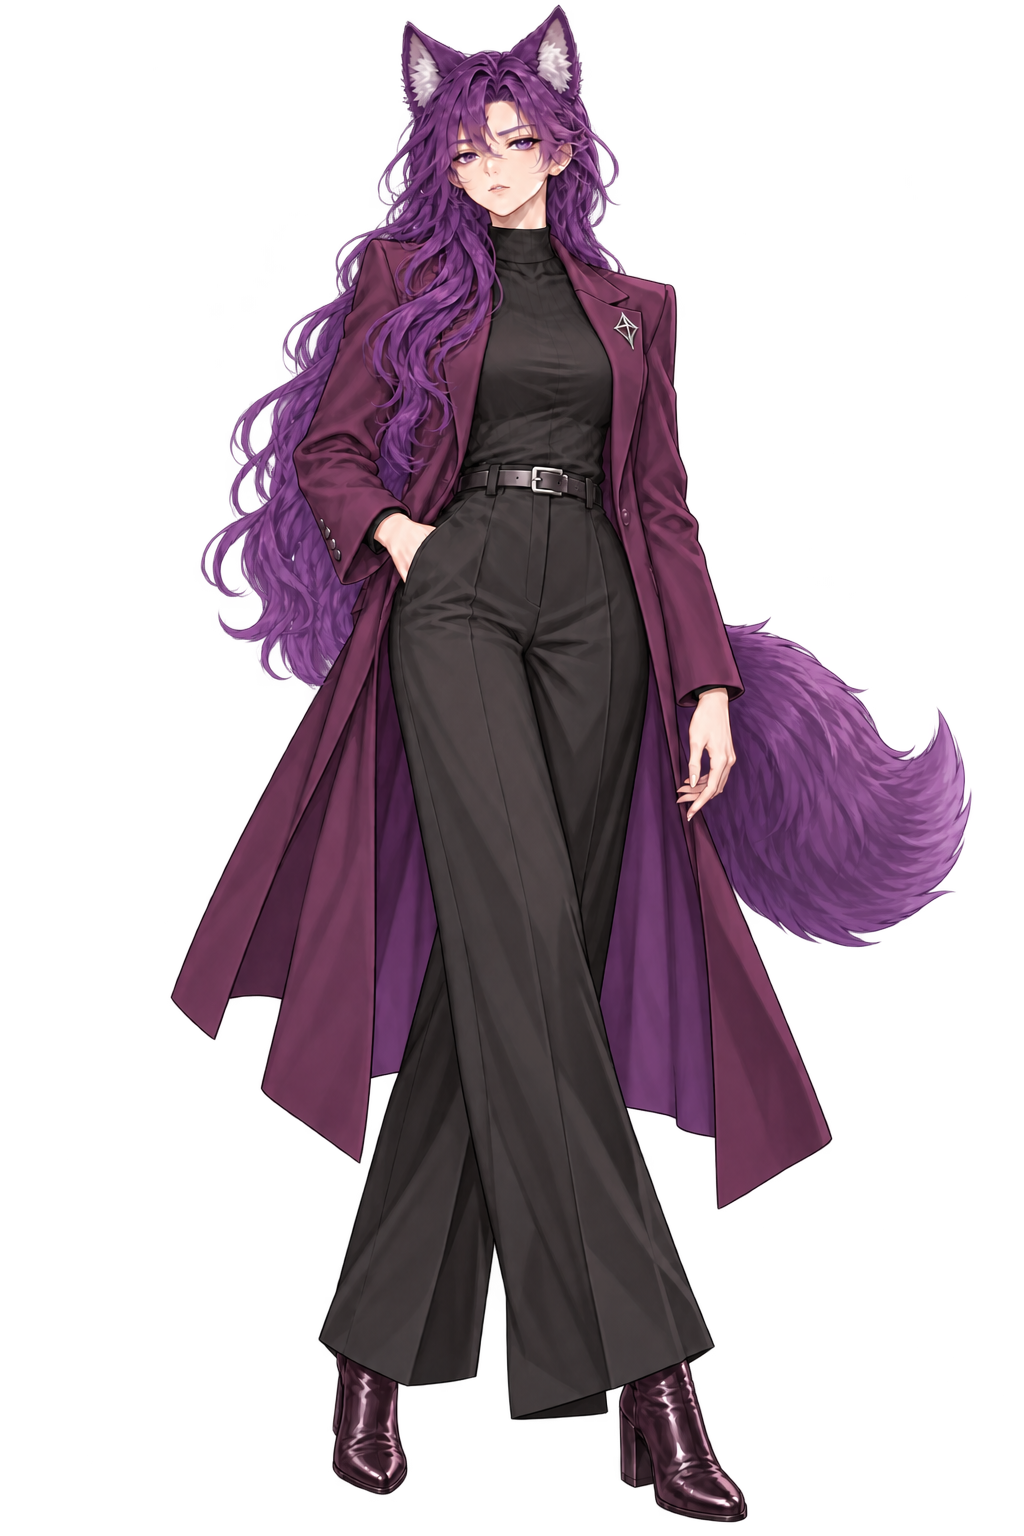
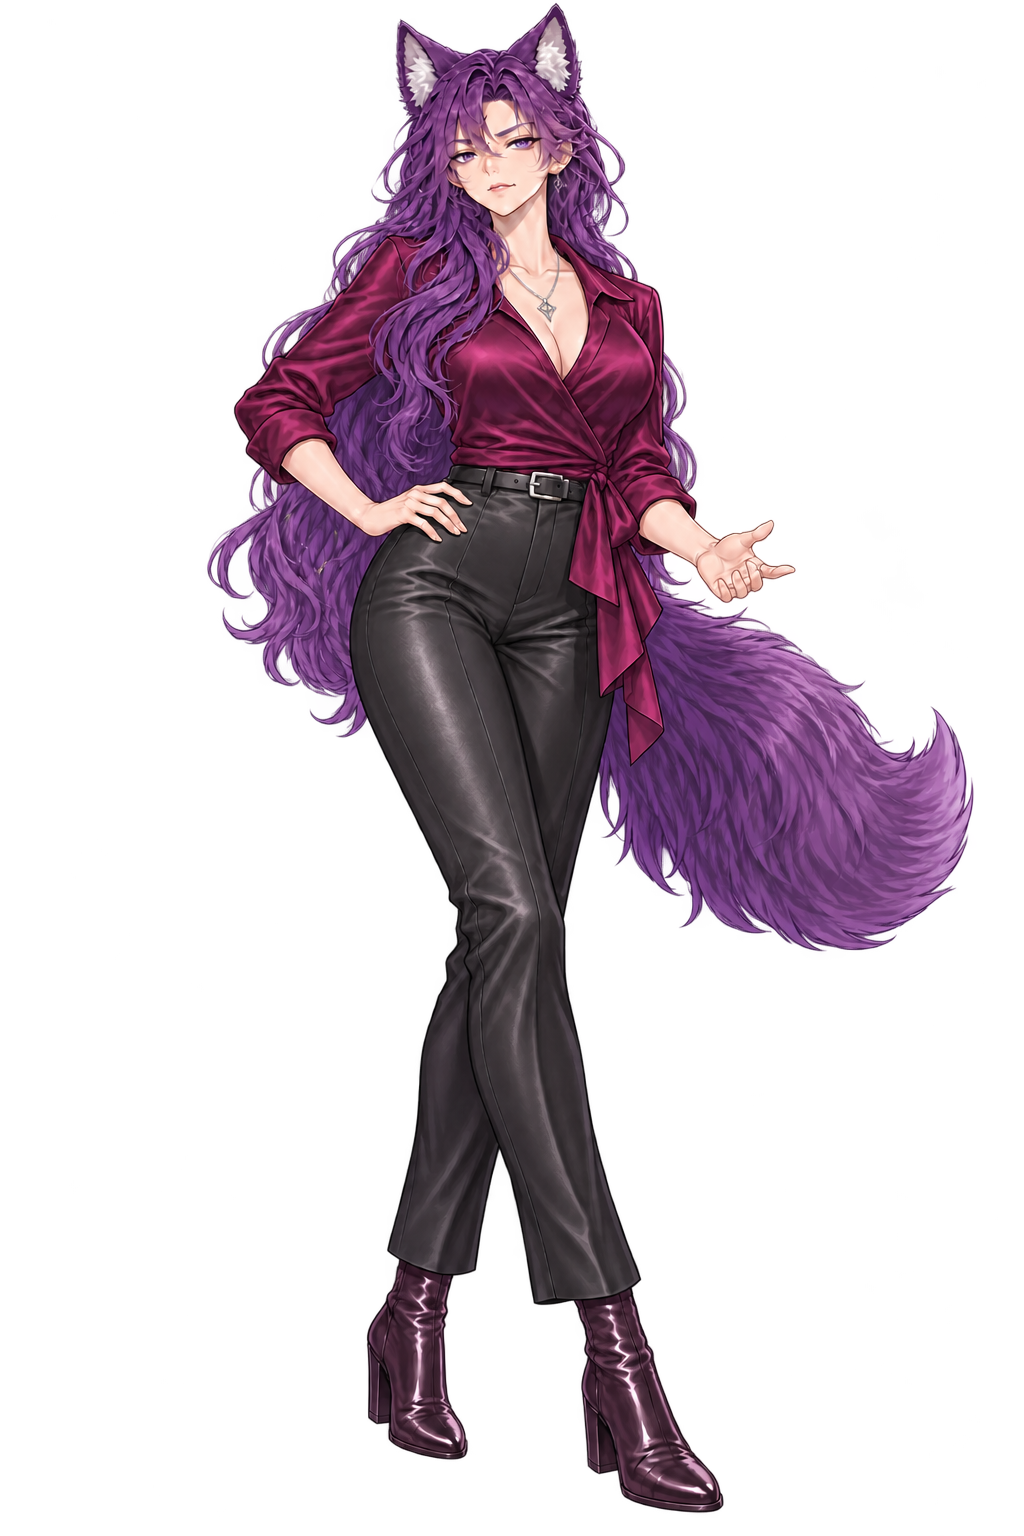
Update Gooner Vex with approved expression set

Changed region(s): [[0.1562, 0.0, 0.9688, 1.0]]

diff --git a/Nemo Engine/assets/vex/README.md b/Nemo Engine/assets/vex/README.md
@@ -35,7 +35,7 @@ The selected personality chooses the image set. Her reaction chooses an expressi
 - **Unhinged:** uses `unhinged/`, with teal dyed hair with a broad coral section and visible violet roots, a messy half-up knot and pencil, an ivory paint-marked artist smock, plum top, charcoal work trousers, worn brown lace-up boots, a plum sketchbook, purple wolf ears, and a full purple wolf tail. The project owner approved this artist design to express unconstrained creativity, experimental ideas, and spontaneous enthusiasm. All nine intended expressions are available as transparent 1024 × 1536 full-body PNGs: neutral, amused, delighted, thoughtful, skeptical, surprised, concerned, sad, and annoyed.
 - **Whimsical:** uses `whimsical/`, with a thick purple side braid, dusty-teal tailcoat, ivory ruffled high-neck blouse, plum waistcoat and skirt, dark tights, teal ankle boots, rose-gold crescent pin, purple wolf ears, and a full purple wolf tail. The project owner approved her open, curious pose with a single ivory origami butterfly hovering above her palm. All nine intended expressions are available as transparent 1024 × 1536 full-body PNGs: neutral, amused, delighted, thoughtful, skeptical, surprised, concerned, sad, and annoyed. Her reactions express adult wonder, playful discovery, and genuine emotional range.
 - **Goon Gremlin:** uses `goon-gremlin/`, with a purple half-up bun and long waves, oversized magenta hoodie with cyan lining, black shirt and cargo joggers, black-and-cyan high-tops, purple wolf ears, and a full purple wolf tail. The project owner approved her livelier head tilt and open conversational pose, with one hand holding the hoodie near her shoulder and the other making a small open-palm gesture. All nine intended expressions are available as transparent 1024 × 1536 full-body PNGs: neutral, amused, delighted, thoughtful, skeptical, surprised, concerned, sad, and annoyed. Her reactions retain impish confidence, direct teasing charm, and genuine emotional range.
-- **Gooner:** uses `gooner/`, with long purple waves, a deep-magenta longline blazer, opaque black high-neck blouse, black wide-leg trousers, a narrow silver belt, geometric lapel pin, and dark-plum heeled ankle boots, purple wolf ears, and a fluffy wolf tail. All nine intended expressions are available as transparent 1024 × 1536 full-body PNGs: neutral, amused, delighted, thoughtful, skeptical, surprised, concerned, sad, and annoyed. Her reactions retain focused confidence, knowing warmth, and an expressive emotional range.
+- **Gooner:** uses `gooner/`, with long purple waves, a deep-magenta satin wrap blouse and tied waist, fitted black leather trousers, narrow silver belt, dark-plum heeled ankle boots, silver earrings and geometric pendant, purple wolf ears, and a full purple wolf tail. The project owner approved her direct, playful confidence and open standing pose, one hand on her hip and the other relaxed near her waist. All nine intended expressions are available as transparent 1024 × 1536 full-body PNGs: neutral, amused, delighted, thoughtful, skeptical, surprised, concerned, sad, and annoyed. Her reactions retain self-possessed warmth and a genuine emotional range.
 - `masters/` reserves space for resolved Master Vex identities. Do not generate every possible combination. Register a stable Master ID and its own image set when artwork is available.
 
 `manifest.json` is the source of truth. Folder names and keys are lowercase kebab-case. Exact preset prompt IDs are recorded alongside readable personality names; these IDs come from the v12.2 Lite preset. Older prompt IDs can be added to the same mapping without changing asset paths.
@@ -48,7 +48,7 @@ The selected personality chooses the image set. Her reaction chooses an expressi
 4. Supply `neutral` first. Set the set's status to `partial` while adding expressions, or `ready` when its intended set is complete. Update `assetVersion` whenever artwork or mappings change.
 5. Record artist/source, usage permission, and any required attribution in `CREDITS.md`.
 
-All 30 current image sets use nine expressions: neutral, amused, delighted, thoughtful, skeptical, surprised, concerned, sad, and annoyed. `intendedExpressions` records the complete target set; other optional slots may remain null even when a set is ready. Generation prompts and image hashes for the original 0.27.0 catalog are preserved in [`generation/v0.27.0.json`](generation/v0.27.0.json). The approved Unhinged artist revision and its nine expressions are recorded in [`generation/v0.28.0.json`](generation/v0.28.0.json). The approved Whimsical revision is recorded in [`generation/v0.29.0.json`](generation/v0.29.0.json). The approved Goon Gremlin revision is recorded in [`generation/v0.30.0.json`](generation/v0.30.0.json).
+All 30 current image sets use nine expressions: neutral, amused, delighted, thoughtful, skeptical, surprised, concerned, sad, and annoyed. `intendedExpressions` records the complete target set; other optional slots may remain null even when a set is ready. Generation prompts and image hashes for the original 0.27.0 catalog are preserved in [`generation/v0.27.0.json`](generation/v0.27.0.json). The approved Unhinged artist revision and its nine expressions are recorded in [`generation/v0.28.0.json`](generation/v0.28.0.json). The approved Whimsical revision is recorded in [`generation/v0.29.0.json`](generation/v0.29.0.json). The approved Goon Gremlin revision is recorded in [`generation/v0.30.0.json`](generation/v0.30.0.json). The approved Gooner revision is recorded in [`generation/v0.31.0.json`](generation/v0.31.0.json).
 
 Other common expression slots: happy, excited, playful, smug, angry, embarrassed, weary. Not every personality needs every slot. Additional expressions can be registered explicitly. The manifest includes aliases for pensive, grinning, pouting, hurt, and faint-smile; expand these into distinct portraits later if useful.
 

diff --git a/Nemo Engine/assets/vex/CREDITS.md b/Nemo Engine/assets/vex/CREDITS.md
@@ -244,9 +244,10 @@
 
 - Files: `gooner/neutral.png`, `gooner/amused.png`, `gooner/delighted.png`, `gooner/thoughtful.png`, `gooner/skeptical.png`, `gooner/surprised.png`, `gooner/concerned.png`, `gooner/sad.png`, `gooner/annoyed.png`.
 - Character and creative direction: Noah / NemoVonNirgend.
-- Source: generated with ChatGPT image generation using the supplied Vex identity reference, then edited from this set’s neutral base to create the remaining expressions. The set preserves long purple waves, a deep-magenta longline blazer, opaque black high-neck blouse, black wide-leg trousers, a narrow silver belt, geometric lapel pin, and dark-plum heeled ankle boots, wolf ears, and a fluffy tail across all nine expressions.
+- Approved direction: direct adult confidence, self-possessed warmth, and playful social engagement. The project owner approved the revised sample before expression generation.
+- Source: generated with ChatGPT image generation, then edited from the approved neutral to create eight matching expressions. The set preserves her long purple waves, deep-magenta satin wrap blouse and tied waist, fitted black leather trousers and belt, plum heeled ankle boots, silver jewelry, purple ears and tail, hip hand, open-palm gesture, and standing pose.
 - Publication: uploaded as part of the project owner’s requested Vex asset-set workflow. No separate third-party artwork license is asserted here.
-- Format: full-body transparent PNG, 1024 × 1536. This is Gooner’s own image set; scene emotion does not switch her personality or costume.
+- Format: full-body transparent PNG, 1024 × 1536. Scene emotion does not switch her personality, clothing, hair, or pose. Exact prompts and hashes are recorded in `generation/v0.31.0.json`.
 
 All current personality folders have complete nine-expression sets. Additional contributions should record their files, creator/source, publication permission or license, and required attribution here. Do not assume a preset license automatically covers separately contributed images.
 
